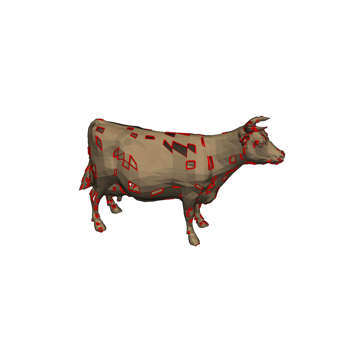
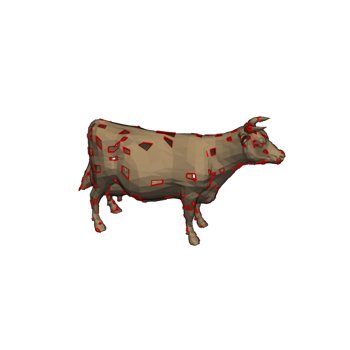
Update docs after building Travis build 60 of pyvista/pymeshfix
The docs were built from the branch 'master' against the commit
efa9f30940d9cfef207f6eea6435ef51c3168526.

The Travis build that generated this commit is at
https://travis-ci.org/pyvista/pymeshfix/jobs/563629365.

The doctr command that was run is

    /home/travis/virtualenv/python3.7.1/bin/doctr deploy --built-docs ./docs/_build/html/ .

Changed region(s): [[0.2286, 0.3143, 0.8, 0.7143], [0.8, 0.4286, 0.8286, 0.4571], [0.4, 0.5714, 0.4286, 0.6]]

diff --git a/searchindex.js b/searchindex.js
@@ -1,1 +1,1 @@
-Search.setIndex({docnames:["api","examples/bunny","examples/cow","examples/index","examples/sg_execution_times","examples/torso","index"],envversion:{"sphinx.domains.c":1,"sphinx.domains.changeset":1,"sphinx.domains.cpp":1,"sphinx.domains.javascript":1,"sphinx.domains.math":2,"sphinx.domains.python":1,"sphinx.domains.rst":1,"sphinx.domains.std":1,sphinx:56},filenames:["api.rst","examples/bunny.rst","examples/cow.rst","examples/index.rst","examples/sg_execution_times.rst","examples/torso.rst","index.rst"],objects:{"pymeshfix.MeshFix":{extract_holes:[0,1,1,""],load_arrays:[0,1,1,""],mesh:[0,2,1,""],plot:[0,1,1,""],repair:[0,1,1,""],save:[0,1,1,""],write:[0,1,1,""]},pymeshfix:{MeshFix:[0,0,1,""],_meshfix:[0,3,0,"-"],meshfix:[0,3,0,"-"]}},objnames:{"0":["py","class","Python class"],"1":["py","method","Python method"],"2":["py","attribute","Python attribute"],"3":["py","module","Python module"]},objtypes:{"0":"py:class","1":"py:method","2":"py:attribute","3":"py:module"},terms:{"083e":5,"0x7f9bf5480888":2,"0x7f9bf54809a8":2,"0x7f9bf5480d08":5,"320e":5,"442e":5,"446e":2,"624e":5,"637e":2,"680e":5,"696e":2,"701e":2,"720e":5,"760e":2,"998e":2,"case":6,"class":0,"default":0,"float":6,"import":[1,2,5,6],"new":0,"public":6,"return":[0,6],"true":[0,1,2,5],"while":6,FOR:6,One:6,The:6,There:6,_meshfix:6,abov:6,absolut:5,access:[0,6],add:2,add_mesh:[1,2,5],addit:0,again:6,agreement:6,all:[0,6],allow:6,along:5,altern:6,ani:6,appi:5,approach:6,arg:0,argument:0,arrai:[0,2,5,6],ascii:0,assum:6,attempt:[0,6],atten:[0,6],author:6,award:6,base:[0,6],been:6,befor:0,begin:0,bell:6,better:6,binari:0,bool:0,both:0,bound:[2,5,6],boundari:[0,6],bring:6,bunni:[3,4],cad:6,camera:[1,2],camera_posit:[1,2,5],can:[0,6],cannot:6,cast:2,cell:[2,5],charact:0,check:6,cite:6,clean:[0,6],clean_from_arrai:6,clean_from_fil:6,click:[1,2,5],clone:6,close:6,cnr:6,coars:6,code:[1,2,5],color:[1,2,5],com:6,commerci:6,commun:6,complex:5,compon:[0,2,5,6],comput:6,contain:0,contract:6,control:6,copi:6,correct:6,could:6,cow:[3,4],cpo:[1,2,5],cpos_ear:5,creat:6,cython:[0,6],data:0,debug:0,defect:6,defin:1,degener:6,degeneraci:[1,2,5],deprec:0,depth:[1,2,5],design:6,detail:6,digit:6,directli:6,disabl:0,disk:0,distribut:6,doi:6,download:[1,2,5],download_bunni:1,download_cow:2,download_torso:5,drive:6,dual:6,each:0,ear:5,eas:6,either:[0,6],element:6,emphas:5,enabl:0,enable_eye_dome_light:[1,2,5],ensur:5,even:6,exampl:[1,2,4,5],execut:4,extens:0,extract:[0,1,5],extract_geometri:2,extract_hol:[0,1,2,5],eye_dome_light:5,face:[0,6],fail:6,fals:0,faster:0,fclean:6,file:[0,4],filenam:0,filetyp:0,fill:6,fill_small_boundari:6,filter:5,fit:6,fix:[1,2,5],flaw:6,follow:[0,6],format:6,foundat:6,free:6,from:[0,1,2,5,6],ftype:0,full:[1,2,5],galleri:[1,2,3,5],gener:[1,2,3,5,6],git:6,github:6,gnu:6,gpl:6,hard:6,has:6,have:6,help:[1,2,5],here:[1,2,5,6],hole:[0,1,2,5,6],holei:[3,4],holy_cow:2,hope:6,how:6,http:6,idea:6,imati:6,impli:6,infer:0,infil:6,inner_loop:6,inplac:0,input:6,int32:6,interfac:0,intersect:[1,2,5,6],invert:2,ipynb:[1,2,5],isol:0,join:[0,6],join_closest_compon:6,joincomp:0,jupyt:[1,2,5],keyword:0,kwarg:0,largest:0,later:6,left:6,leverag:6,librari:6,licens:6,lightweight:6,line:0,line_width:[1,2,5],list:6,load:[0,6],load_arrai:[0,6],loadfil:6,locat:2,mai:[0,6],main:6,marco:[0,6],max_it:6,memori:6,merchant:6,mesh:[0,1,2,5,6],meshfix:[0,1,2,5,6],method:0,might:6,minut:[1,2,5],model:6,modifi:6,modul:[0,6],more:6,much:0,must:6,n_cell:2,nativ:6,ndarrai:0,nearbi:[0,6],necessari:6,need:5,nice:2,note:0,notebook:[1,2,5],numpi:[0,2,6],object:[0,6],occurr:6,one:0,open:0,option:[0,6],org:6,other:6,out:[1,2,5,6],outfil:6,outlin:[1,2,5],output:6,over:6,overridden:0,paper:6,paramet:0,part:[5,6],particular:6,patch:[1,2,5],percept:[1,2,5],perform:[0,6],perfrom:5,pip:6,pleas:6,plot:[0,1,2,5,6],plotter:[1,2,5],ply:[0,6],point:[0,2,5],polydata:[0,2,5],polygon:6,polyhedr:5,polyhedron:6,portabl:6,posit:1,present:6,print:[0,2,5,6],process:0,produc:6,program:6,proper:6,publish:6,purpos:6,pymeshfix:[0,1,2,5],pypi:6,python:[0,1,2,5,6],pytmesh:6,pyvista:[0,1,2,5,6],rand:2,random:2,raw:6,reach:6,read:6,readi:1,reason:6,redistribut:6,refer:6,region:6,remov:[0,2,5,6],remove_smallest_compon:0,render:[1,2],repair:[0,1,2,5,6],repres:6,requir:6,research:6,reserv:6,result:[2,6],return_arrai:6,right:6,run:[1,2,5,6],s00371:6,same:6,save:[0,6],save_fil:6,script:[1,2,5],second:[1,2,5],see:6,self:6,set:6,should:[0,6],show:[0,1,2,5],show_edg:5,show_hol:0,simpl:0,simpli:5,singl:6,singular:6,small:[2,5],softwar:6,solid:6,sort:6,sourc:[1,2,5,6],specif:6,specifi:0,speed:6,sphinx:[1,2,3,5],sphinx_gallery_thumbnail_numb:[1,2,5],springer:6,stl:0,str:0,string:0,subtl:5,surfac:[0,6],take:6,term:6,tessel:6,test:6,tetrahedr:0,than:0,thei:6,them:0,therefor:6,therein:6,thi:[0,5,6],three:0,threshold:2,thu:6,tight:5,time:[1,2,5],tin:6,tmesh:6,torso:[3,4],total:[1,2,4,5],tri_filt:[2,5],triangl:[5,6],triangul:2,triangular:0,txt:6,type:0,typic:6,unavail:6,under:6,understand:6,unless:0,unmodifi:6,updat:0,use:6,used:6,useful:6,user:6,uses:6,using:[0,6],vclean:6,verbos:[0,1,2,5],version:6,vertex:[0,6],view:6,visual:6,vtk:0,vtkinterfac:6,warranti:6,water:5,watertight:6,where:[5,6],whistl:6,win:6,wish:6,with_vtk:6,within:6,wonder:6,work:6,wrap:0,wrapper:[0,6],write:[0,6],written:0,www:6,xyz:0,you:6,your:6},titles:["API Reference","Bunny","Holey Cow","Examples","Computation times","Torso","PyMeshFix"],titleterms:{algorithm:6,api:0,bunni:1,citat:6,complet:6,comput:4,copyright:6,cow:2,depend:6,easi:6,exampl:[3,6],holei:2,instal:6,polici:6,pymeshfix:6,refer:0,time:4,torso:5,vtk:6,without:6}})
+Search.setIndex({docnames:["api","examples/bunny","examples/cow","examples/index","examples/sg_execution_times","examples/torso","index"],envversion:{"sphinx.domains.c":1,"sphinx.domains.changeset":1,"sphinx.domains.cpp":1,"sphinx.domains.javascript":1,"sphinx.domains.math":2,"sphinx.domains.python":1,"sphinx.domains.rst":1,"sphinx.domains.std":1,sphinx:56},filenames:["api.rst","examples/bunny.rst","examples/cow.rst","examples/index.rst","examples/sg_execution_times.rst","examples/torso.rst","index.rst"],objects:{"pymeshfix.MeshFix":{extract_holes:[0,1,1,""],load_arrays:[0,1,1,""],mesh:[0,2,1,""],plot:[0,1,1,""],repair:[0,1,1,""],save:[0,1,1,""],write:[0,1,1,""]},pymeshfix:{MeshFix:[0,0,1,""],_meshfix:[0,3,0,"-"],meshfix:[0,3,0,"-"]}},objnames:{"0":["py","class","Python class"],"1":["py","method","Python method"],"2":["py","attribute","Python attribute"],"3":["py","module","Python module"]},objtypes:{"0":"py:class","1":"py:method","2":"py:attribute","3":"py:module"},terms:{"083e":5,"0x7fe5a9582ee8":2,"0x7fe5a95a46a8":2,"0x7fe5a95a4a08":5,"320e":5,"442e":5,"446e":2,"624e":5,"637e":2,"680e":5,"701e":2,"720e":5,"760e":2,"998e":2,"case":6,"class":0,"default":0,"float":6,"import":[1,2,5,6],"new":0,"public":6,"return":[0,6],"true":[0,1,2,5],"while":6,FOR:6,One:6,The:6,There:6,_meshfix:6,abov:6,absolut:5,access:[0,6],add:2,add_mesh:[1,2,5],addit:0,again:6,agreement:6,all:[0,6],allow:6,along:5,altern:6,ani:6,appi:5,approach:6,arg:0,argument:0,arrai:[0,2,5,6],ascii:0,assum:6,attempt:[0,6],atten:[0,6],author:6,award:6,base:[0,6],been:6,befor:0,begin:0,bell:6,better:6,binari:0,bool:0,both:0,bound:[2,5,6],boundari:[0,6],bring:6,bunni:[3,4],cad:6,camera:[1,2],camera_posit:[1,2,5],can:[0,6],cannot:6,cast:2,cell:[2,5],charact:0,check:6,cite:6,clean:[0,6],clean_from_arrai:6,clean_from_fil:6,click:[1,2,5],clone:6,close:6,cnr:6,coars:6,code:[1,2,5],color:[1,2,5],com:6,commerci:6,commun:6,complex:5,compon:[0,2,5,6],comput:6,contain:0,contract:6,control:6,copi:6,correct:6,could:6,cow:[3,4],cpo:[1,2,5],cpos_ear:5,creat:6,cython:[0,6],data:0,debug:0,defect:6,defin:1,degener:6,degeneraci:[1,2,5],deprec:0,depth:[1,2,5],design:6,detail:6,digit:6,directli:6,disabl:0,disk:0,distribut:6,doi:6,download:[1,2,5],download_bunni:1,download_cow:2,download_torso:5,drive:6,dual:6,each:0,ear:5,eas:6,either:[0,6],element:6,emphas:5,enabl:0,enable_eye_dome_light:[1,2,5],ensur:5,even:6,exampl:[1,2,4,5],execut:4,extens:0,extract:[0,1,5],extract_geometri:2,extract_hol:[0,1,2,5],eye_dome_light:5,face:[0,6],fail:6,fals:0,faster:0,fclean:6,file:[0,4],filenam:0,filetyp:0,fill:6,fill_small_boundari:6,filter:5,fit:6,fix:[1,2,5],flaw:6,follow:[0,6],format:6,foundat:6,free:6,from:[0,1,2,5,6],ftype:0,full:[1,2,5],galleri:[1,2,3,5],gener:[1,2,3,5,6],git:6,github:6,gnu:6,gpl:6,hard:6,has:6,have:6,help:[1,2,5],here:[1,2,5,6],hole:[0,1,2,5,6],holei:[3,4],holy_cow:2,hope:6,how:6,http:6,idea:6,imati:6,impli:6,indic:0,infer:0,infil:6,inner_loop:6,inplac:0,input:6,int32:6,interfac:0,intersect:[1,2,5,6],invert:2,ipynb:[1,2,5],isol:0,join:[0,6],join_closest_compon:6,joincomp:0,jupyt:[1,2,5],keyword:0,kwarg:0,largest:0,later:6,left:6,leverag:6,librari:6,licens:6,lightweight:6,line:0,line_width:[1,2,5],list:6,load:[0,6],load_arrai:[0,6],loadfil:6,locat:2,mai:[0,6],main:6,marco:[0,6],max_it:6,memori:6,merchant:6,mesh:[0,1,2,5,6],meshfix:[0,1,2,5,6],method:0,might:6,minut:[1,2,5],model:6,modifi:6,modul:[0,6],more:6,much:0,must:6,n_cell:2,nativ:6,ndarrai:0,nearbi:[0,6],necessari:6,need:5,nice:2,note:0,notebook:[1,2,5],numpi:[0,2,6],object:[0,6],occurr:6,one:0,open:0,option:[0,6],org:6,other:6,out:[1,2,5,6],outfil:6,outlin:[1,2,5],output:6,over:6,overridden:0,paper:6,paramet:0,part:[5,6],particular:6,patch:[1,2,5],percept:[1,2,5],perform:[0,6],perfrom:5,pip:6,pleas:6,plot:[0,1,2,5,6],plotter:[1,2,5],ply:[0,6],point:[0,2,5],polydata:[0,2,5],polygon:6,polyhedr:5,polyhedron:6,portabl:6,posit:1,present:6,print:[0,2,5,6],process:0,produc:6,program:6,proper:6,publish:6,purpos:6,pymeshfix:[0,1,2,5],pypi:6,python:[0,1,2,5,6],pytmesh:6,pyvista:[0,1,2,5,6],rand:2,random:2,raw:6,reach:6,read:6,readi:1,reason:6,redistribut:6,refer:6,region:6,remov:[0,2,5,6],remove_smallest_compon:0,render:[1,2],repair:[0,1,2,5,6],repres:6,requir:6,research:6,reserv:6,result:[2,6],return_arrai:6,right:6,run:[1,2,5,6],s00371:6,same:6,save:[0,6],save_fil:6,script:[1,2,5],second:[1,2,5],see:6,self:6,set:6,should:[0,6],show:[0,1,2,5],show_edg:5,show_hol:0,simpl:0,simpli:5,singl:6,singular:6,small:[2,5],softwar:6,solid:6,sort:6,sourc:[1,2,5,6],specif:6,specifi:0,speed:6,sphinx:[1,2,3,5],sphinx_gallery_thumbnail_numb:[1,2,5],springer:6,stl:0,str:0,string:0,subtl:5,surfac:[0,6],take:6,term:6,tessel:6,test:6,tetrahedr:0,than:0,thei:6,them:0,therefor:6,therein:6,thi:[0,5,6],three:0,threshold:2,thu:6,tight:5,time:[1,2,5],tin:6,tmesh:6,torso:[3,4],total:[1,2,4,5],tri_filt:[2,5],triangl:[0,5,6],triangul:2,triangular:0,txt:6,type:0,typic:6,unavail:6,under:6,understand:6,unless:0,unmodifi:6,updat:0,use:6,used:6,useful:6,user:6,uses:6,using:[0,6],vclean:6,verbos:[0,1,2,5],version:6,vertex:[0,6],view:6,visual:6,vtk:0,vtkinterfac:6,warranti:6,water:5,watertight:6,where:[5,6],whistl:6,win:6,wish:6,with_vtk:6,within:6,wonder:6,work:6,wrap:0,wrapper:[0,6],write:[0,6],written:0,www:6,xyz:0,you:6,your:6},titles:["API Reference","Bunny","Holey Cow","Examples","Computation times","Torso","PyMeshFix"],titleterms:{algorithm:6,api:0,bunni:1,citat:6,complet:6,comput:4,copyright:6,cow:2,depend:6,easi:6,exampl:[3,6],holei:2,instal:6,polici:6,pymeshfix:6,refer:0,time:4,torso:5,vtk:6,without:6}})

diff --git a/examples/cow.html b/examples/cow.html
@@ -9,7 +9,7 @@
   
   <meta name="viewport" content="width=device-width, initial-scale=1.0">
   
-  <title>Holey Cow &mdash; pymeshfix 0.13.1 documentation</title>
+  <title>Holey Cow &mdash; pymeshfix 0.13.2 documentation</title>
   
 
   
@@ -72,7 +72,7 @@
             
             
               <div class="version">
-                0.13.1
+                0.13.2
               </div>
             
           
@@ -223,8 +223,8 @@
 </pre></div>
 </div>
 <p class="sphx-glr-script-out">Out:</p>
-<div class="sphx-glr-script-out highlight-none notranslate"><div class="highlight"><pre><span></span>PolyData (0x7f9bf54809a8)
-  N Cells:      5226
+<div class="sphx-glr-script-out highlight-none notranslate"><div class="highlight"><pre><span></span>PolyData (0x7fe5a95a46a8)
+  N Cells:      5238
   N Points:     2903
   X Bounds:     -4.446e+00, 5.998e+00
   Y Bounds:     -3.637e+00, 2.760e+00
@@ -255,9 +255,9 @@
 </pre></div>
 </div>
 <p class="sphx-glr-script-out">Out:</p>
-<div class="sphx-glr-script-out highlight-none notranslate"><div class="highlight"><pre><span></span>Removed 2 small components
+<div class="sphx-glr-script-out highlight-none notranslate"><div class="highlight"><pre><span></span>Removed 3 small components
 Patching holes...
-Patched 199 holes
+Patched 211 holes
 Fixing degeneracies and intersections
 </pre></div>
 </div>
@@ -267,10 +267,10 @@ Fixing degeneracies and intersections
 </pre></div>
 </div>
 <p class="sphx-glr-script-out">Out:</p>
-<div class="sphx-glr-script-out highlight-none notranslate"><div class="highlight"><pre><span></span>PolyData (0x7f9bf5480888)
-  N Cells:      5446
-  N Points:     2725
-  X Bounds:     -3.696e+00, 5.998e+00
+<div class="sphx-glr-script-out highlight-none notranslate"><div class="highlight"><pre><span></span>PolyData (0x7fe5a9582ee8)
+  N Cells:      5740
+  N Points:     2872
+  X Bounds:     -4.446e+00, 5.998e+00
   Y Bounds:     -3.637e+00, 2.760e+00
   Z Bounds:     -1.701e+00, 1.701e+00
   N Arrays:     0
@@ -280,7 +280,7 @@ Fixing degeneracies and intersections
 </pre></div>
 </div>
 <img alt="../_images/sphx_glr_cow_002.png" class="sphx-glr-single-img" src="../_images/sphx_glr_cow_002.png" />
-<p class="sphx-glr-timing"><strong>Total running time of the script:</strong> ( 0 minutes  5.224 seconds)</p>
+<p class="sphx-glr-timing"><strong>Total running time of the script:</strong> ( 0 minutes  5.244 seconds)</p>
 <div class="sphx-glr-footer class sphx-glr-footer-example docutils container" id="sphx-glr-download-examples-cow-py">
 <div class="sphx-glr-download docutils container">
 <p><a class="reference download internal" download="" href="../_downloads/700f1bf357ea69088c0a34b0aa306d26/cow.py"><code class="xref download docutils literal notranslate"><span class="pre">Download</span> <span class="pre">Python</span> <span class="pre">source</span> <span class="pre">code:</span> <span class="pre">cow.py</span></code></a></p>

diff --git a/examples/sg_execution_times.html b/examples/sg_execution_times.html
@@ -9,7 +9,7 @@
   
   <meta name="viewport" content="width=device-width, initial-scale=1.0">
   
-  <title>Computation times &mdash; pymeshfix 0.13.1 documentation</title>
+  <title>Computation times &mdash; pymeshfix 0.13.2 documentation</title>
   
 
   
@@ -70,7 +70,7 @@
             
             
               <div class="version">
-                0.13.1
+                0.13.2
               </div>
             
           
@@ -193,11 +193,11 @@
             
   <div class="section" id="computation-times">
 <span id="sphx-glr-examples-sg-execution-times"></span><h1>Computation times<a class="headerlink" href="#computation-times" title="Permalink to this headline">¶</a></h1>
-<p><strong>00:36.079</strong> total execution time for <strong>examples</strong> files:</p>
+<p><strong>00:35.708</strong> total execution time for <strong>examples</strong> files:</p>
 <ul class="simple">
-<li><p><strong>00:17.011</strong>: <a class="reference internal" href="torso.html#sphx-glr-examples-torso-py"><span class="std std-ref">Torso</span></a> (<code class="docutils literal notranslate"><span class="pre">torso.py</span></code>)</p></li>
-<li><p><strong>00:13.844</strong>: <a class="reference internal" href="bunny.html#sphx-glr-examples-bunny-py"><span class="std std-ref">Bunny</span></a> (<code class="docutils literal notranslate"><span class="pre">bunny.py</span></code>)</p></li>
-<li><p><strong>00:05.224</strong>: <a class="reference internal" href="cow.html#sphx-glr-examples-cow-py"><span class="std std-ref">Holey Cow</span></a> (<code class="docutils literal notranslate"><span class="pre">cow.py</span></code>)</p></li>
+<li><p><strong>00:17.020</strong>: <a class="reference internal" href="torso.html#sphx-glr-examples-torso-py"><span class="std std-ref">Torso</span></a> (<code class="docutils literal notranslate"><span class="pre">torso.py</span></code>)</p></li>
+<li><p><strong>00:13.444</strong>: <a class="reference internal" href="bunny.html#sphx-glr-examples-bunny-py"><span class="std std-ref">Bunny</span></a> (<code class="docutils literal notranslate"><span class="pre">bunny.py</span></code>)</p></li>
+<li><p><strong>00:05.244</strong>: <a class="reference internal" href="cow.html#sphx-glr-examples-cow-py"><span class="std std-ref">Holey Cow</span></a> (<code class="docutils literal notranslate"><span class="pre">cow.py</span></code>)</p></li>
 </ul>
 </div>
 

diff --git a/examples/torso.html b/examples/torso.html
@@ -9,7 +9,7 @@
   
   <meta name="viewport" content="width=device-width, initial-scale=1.0">
   
-  <title>Torso &mdash; pymeshfix 0.13.1 documentation</title>
+  <title>Torso &mdash; pymeshfix 0.13.2 documentation</title>
   
 
   
@@ -72,7 +72,7 @@
             
             
               <div class="version">
-                0.13.1
+                0.13.2
               </div>
             
           
@@ -219,7 +219,7 @@ parts of the mesh</p>
 </pre></div>
 </div>
 <p class="sphx-glr-script-out">Out:</p>
-<div class="sphx-glr-script-out highlight-none notranslate"><div class="highlight"><pre><span></span>PolyData (0x7f9bf5480d08)
+<div class="sphx-glr-script-out highlight-none notranslate"><div class="highlight"><pre><span></span>PolyData (0x7fe5a95a4a08)
   N Cells:      12448
   N Points:     12015
   X Bounds:     -1.680e+02, 1.720e+02
@@ -282,7 +282,7 @@ Fixing degeneracies and intersections
 </pre></div>
 </div>
 <img alt="../_images/sphx_glr_torso_004.png" class="sphx-glr-single-img" src="../_images/sphx_glr_torso_004.png" />
-<p class="sphx-glr-timing"><strong>Total running time of the script:</strong> ( 0 minutes  17.011 seconds)</p>
+<p class="sphx-glr-timing"><strong>Total running time of the script:</strong> ( 0 minutes  17.020 seconds)</p>
 <div class="sphx-glr-footer class sphx-glr-footer-example docutils container" id="sphx-glr-download-examples-torso-py">
 <div class="sphx-glr-download docutils container">
 <p><a class="reference download internal" download="" href="../_downloads/988781b05954ec5068adbfe7a980b827/torso.py"><code class="xref download docutils literal notranslate"><span class="pre">Download</span> <span class="pre">Python</span> <span class="pre">source</span> <span class="pre">code:</span> <span class="pre">torso.py</span></code></a></p>

diff --git a/examples/bunny.html b/examples/bunny.html
@@ -9,7 +9,7 @@
   
   <meta name="viewport" content="width=device-width, initial-scale=1.0">
   
-  <title>Bunny &mdash; pymeshfix 0.13.1 documentation</title>
+  <title>Bunny &mdash; pymeshfix 0.13.2 documentation</title>
   
 
   
@@ -72,7 +72,7 @@
             
             
               <div class="version">
-                0.13.1
+                0.13.2
               </div>
             
           
@@ -255,7 +255,7 @@ Fixing degeneracies and intersections
 </pre></div>
 </div>
 <img alt="../_images/sphx_glr_bunny_003.png" class="sphx-glr-single-img" src="../_images/sphx_glr_bunny_003.png" />
-<p class="sphx-glr-timing"><strong>Total running time of the script:</strong> ( 0 minutes  13.844 seconds)</p>
+<p class="sphx-glr-timing"><strong>Total running time of the script:</strong> ( 0 minutes  13.444 seconds)</p>
 <div class="sphx-glr-footer class sphx-glr-footer-example docutils container" id="sphx-glr-download-examples-bunny-py">
 <div class="sphx-glr-download docutils container">
 <p><a class="reference download internal" download="" href="../_downloads/81a10a6450959c49a589aa8cee630836/bunny.py"><code class="xref download docutils literal notranslate"><span class="pre">Download</span> <span class="pre">Python</span> <span class="pre">source</span> <span class="pre">code:</span> <span class="pre">bunny.py</span></code></a></p>

diff --git a/api.html b/api.html
@@ -9,7 +9,7 @@
   
   <meta name="viewport" content="width=device-width, initial-scale=1.0">
   
-  <title>API Reference &mdash; pymeshfix 0.13.1 documentation</title>
+  <title>API Reference &mdash; pymeshfix 0.13.2 documentation</title>
   
 
   
@@ -71,7 +71,7 @@
             
             
               <div class="version">
-                0.13.1
+                0.13.2
               </div>
             
           
@@ -202,8 +202,8 @@
 <p>Cleans and tetrahedralize surface meshes using MeshFix</p>
 <dl class="field-list simple">
 <dt class="field-odd">Parameters</dt>
-<dd class="field-odd"><p><strong>args</strong> (<em>pyvista.PolyData</em><em> or </em><em>(</em><em>np.ndarray</em><em>, </em><em>np.ndarray</em><em>)</em>) – Either a pyvista surface mesh or a n x 3 vertex array and n x
-3 face array.</p>
+<dd class="field-odd"><p><strong>args</strong> (<em>pyvista.PolyData</em><em> or </em><em>(</em><em>np.ndarray</em><em>, </em><em>np.ndarray</em><em>)</em>) – Either a pyvista surface mesh <code class="xref py py-class docutils literal notranslate"><span class="pre">pyvista.PolyData</span></code> or a (n x 3)
+vertex array and (n x 3) face array (indices of the triangles).</p>
 </dd>
 </dl>
 <dl class="method">

diff --git a/py-modindex.html b/py-modindex.html
@@ -9,7 +9,7 @@
   
   <meta name="viewport" content="width=device-width, initial-scale=1.0">
   
-  <title>Python Module Index &mdash; pymeshfix 0.13.1 documentation</title>
+  <title>Python Module Index &mdash; pymeshfix 0.13.2 documentation</title>
   
 
   
@@ -73,7 +73,7 @@
             
             
               <div class="version">
-                0.13.1
+                0.13.2
               </div>
             
           

diff --git a/404.html b/404.html
@@ -9,7 +9,7 @@
   
   <meta name="viewport" content="width=device-width, initial-scale=1.0">
   
-  <title>Page not found &mdash; pymeshfix 0.13.1 documentation</title>
+  <title>Page not found &mdash; pymeshfix 0.13.2 documentation</title>
   
 
   
@@ -70,7 +70,7 @@
             
             
               <div class="version">
-                0.13.1
+                0.13.2
               </div>
             
           

diff --git a/index.html b/index.html
@@ -9,7 +9,7 @@
   
   <meta name="viewport" content="width=device-width, initial-scale=1.0">
   
-  <title>PyMeshFix &mdash; pymeshfix 0.13.1 documentation</title>
+  <title>PyMeshFix &mdash; pymeshfix 0.13.2 documentation</title>
   
 
   
@@ -71,7 +71,7 @@
             
             
               <div class="version">
-                0.13.1
+                0.13.2
               </div>
             
           

diff --git a/examples/index.html b/examples/index.html
@@ -9,7 +9,7 @@
   
   <meta name="viewport" content="width=device-width, initial-scale=1.0">
   
-  <title>Examples &mdash; pymeshfix 0.13.1 documentation</title>
+  <title>Examples &mdash; pymeshfix 0.13.2 documentation</title>
   
 
   
@@ -72,7 +72,7 @@
             
             
               <div class="version">
-                0.13.1
+                0.13.2
               </div>
             
           

diff --git a/genindex.html b/genindex.html
@@ -10,7 +10,7 @@
   
   <meta name="viewport" content="width=device-width, initial-scale=1.0">
   
-  <title>Index &mdash; pymeshfix 0.13.1 documentation</title>
+  <title>Index &mdash; pymeshfix 0.13.2 documentation</title>
   
 
   
@@ -71,7 +71,7 @@
             
             
               <div class="version">
-                0.13.1
+                0.13.2
               </div>
             
           

diff --git a/search.html b/search.html
@@ -9,7 +9,7 @@
   
   <meta name="viewport" content="width=device-width, initial-scale=1.0">
   
-  <title>Search &mdash; pymeshfix 0.13.1 documentation</title>
+  <title>Search &mdash; pymeshfix 0.13.2 documentation</title>
   
 
   
@@ -71,7 +71,7 @@
             
             
               <div class="version">
-                0.13.1
+                0.13.2
               </div>
             
           
